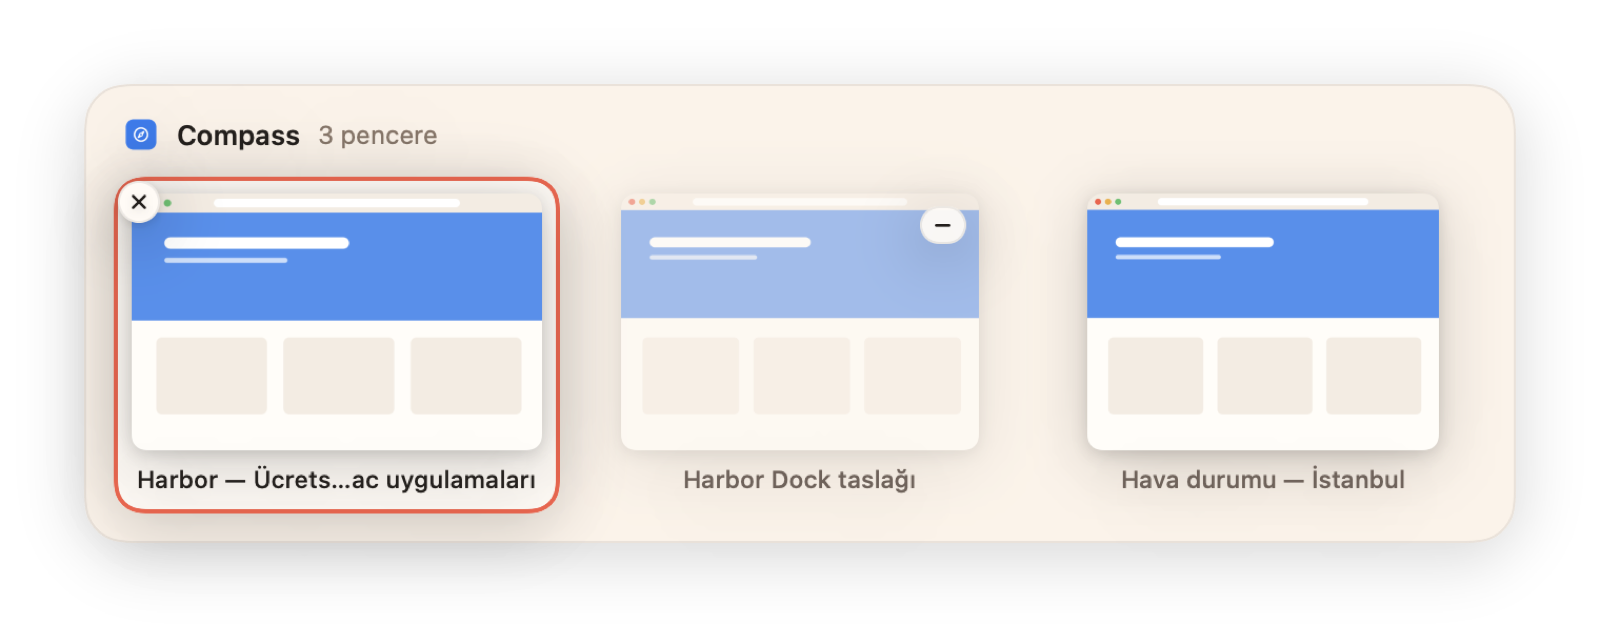
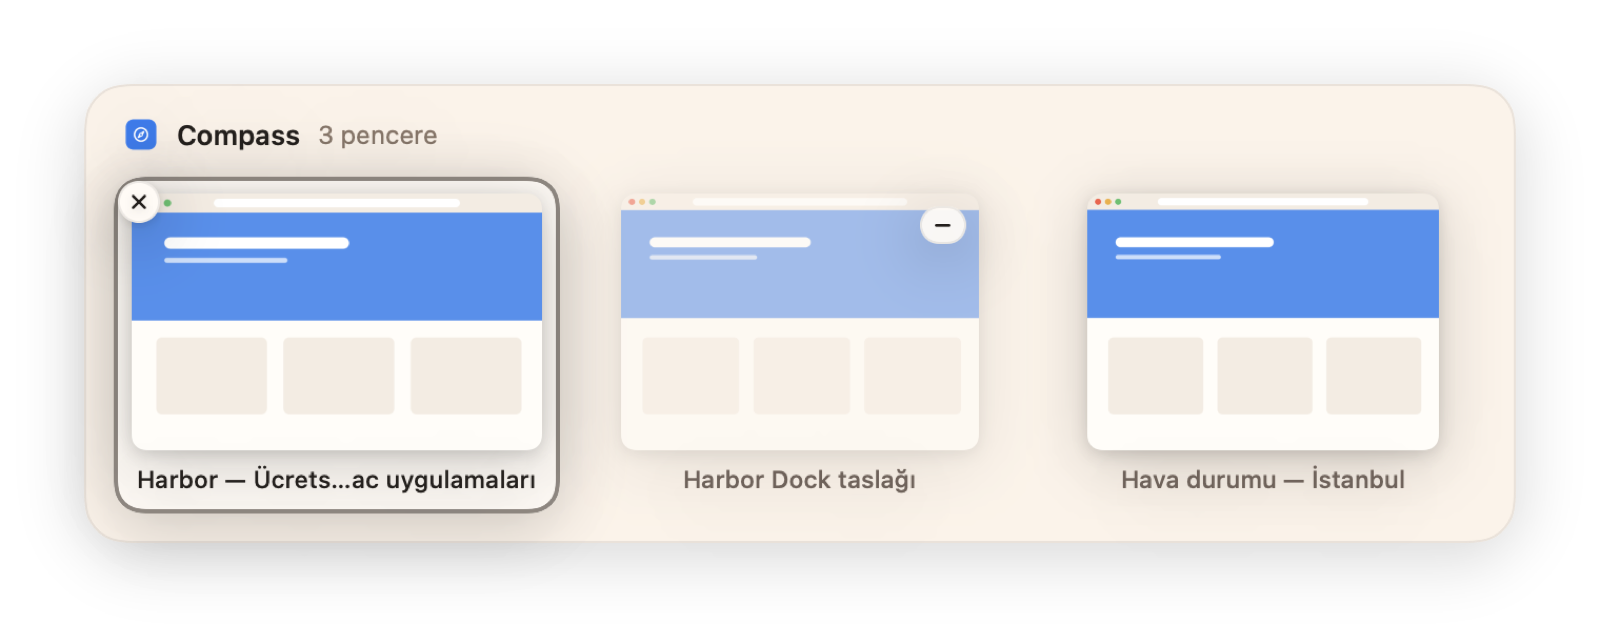
Choose the highlight colour; grey by default instead of coral
- Settings → General → Highlight: pebble grey (default), sky, mint, lilac,
  sun, coral, graphite or the system accent, for the selection ring and
  the search caret. Described in settings-schema.json.
- Buttons and permission rows use ink instead of coral.
- The website's ring, caret and badges are grey; screenshots and the
  README animation are re-rendered.

Changed region(s): [[0.0625, 0.7879, 0.3438, 0.8182], [0.0625, 0.2727, 0.3438, 0.303]]

diff --git a/docs/styles.css b/docs/styles.css
@@ -6,8 +6,7 @@
   --ink-2: #6e625a;
   --ink-3: #857568;
   --line: rgba(35, 31, 28, 0.08);
-  --coral: #e8664f;
-  --coral-ink: #c4503b;
+  --accent: #8f8881;      /* pebble grey: the selection ring */
   --green: #34c759;
   --orange: #ff9f0a;
   --font: system-ui, -apple-system, BlinkMacSystemFont, "Segoe UI", sans-serif;
@@ -61,8 +60,8 @@ code { font: 0.86em var(--mono); background: var(--raised); padding: 2px 6px; bo
 .tag-free {
   padding: 2px 8px;
   border-radius: 999px;
-  background: rgba(232, 102, 79, 0.12);
-  color: var(--coral-ink);
+  background: var(--raised);
+  color: var(--ink-2);
   font-size: 11px;
   font-weight: 700;
   letter-spacing: 0.02em;
@@ -132,7 +131,7 @@ h1 {
   height: 0.42em;
   border-radius: 0.08em;
   background: var(--ink);
-  box-shadow: 0 0 0 0.035em var(--card), 0 0 0 0.075em var(--coral);
+  box-shadow: 0 0 0 0.035em var(--card), 0 0 0 0.075em var(--accent);
 }
 
 .lead { margin: 24px auto 0; max-width: 36ch; color: var(--ink-2); font-size: 19px; line-height: 1.5; }
@@ -391,7 +390,7 @@ h1 {
 .dp-head span { color: var(--ink-3); font-weight: 500; }
 .dp-cards { display: flex; gap: 8px; }
 .dp-card { width: 150px; padding: 6px; border: 0; border-radius: 12px; background: transparent; font: inherit; color: inherit; text-align: center; cursor: pointer; transition: transform 100ms ease; }
-.dp-card:hover { background: var(--card); box-shadow: inset 0 0 0 2px var(--coral); }
+.dp-card:hover { background: var(--card); box-shadow: inset 0 0 0 2px var(--accent); }
 .dp-card:active { transform: scale(0.97); transition-duration: 50ms; }
 .dp-card .mini { height: 90px; border-radius: 6px; background: #fffdf9; box-shadow: 0 0 0 1px rgba(35, 31, 28, 0.1), 0 3px 8px -3px rgba(60, 30, 20, 0.3); overflow: hidden; position: relative; }
 .dp-card small { display: block; margin-top: 5px; font-size: 11px; font-weight: 550; color: var(--ink-2); white-space: nowrap; overflow: hidden; text-overflow: ellipsis; }
@@ -426,7 +425,7 @@ h1 {
 }
 .sw-search svg { width: 15px; height: 15px; color: var(--ink-3); }
 .sw-search span:empty::before { content: attr(data-placeholder); color: var(--ink-3); }
-.caret { width: 2px; height: 17px; margin-left: -6px; border-radius: 1px; background: var(--coral); }
+.caret { width: 2px; height: 17px; margin-left: -6px; border-radius: 1px; background: var(--accent); }
 .sw-grid { position: relative; display: flex; flex-wrap: wrap; justify-content: center; gap: 8px; width: calc(var(--cols, 4) * 168px + (var(--cols, 4) - 1) * 8px); margin: 0 auto; }
 .sw-tile { position: relative; z-index: 1; flex: none; width: 168px; padding: 8px; border-radius: 14px; cursor: pointer; transition: transform 90ms ease; }
 .sw-tile:active { transform: scale(0.97); transition-duration: 40ms; }
@@ -437,7 +436,7 @@ h1 {
 .sw-cap span { white-space: nowrap; overflow: hidden; text-overflow: ellipsis; }
 .sw-tile.sel .sw-cap { color: var(--ink); font-weight: 650; }
 .app-dot { flex: none; display: grid; place-items: center; width: 14px; height: 14px; border-radius: 4px; color: #fff; font-size: 8.5px; font-weight: 800; }
-.sw-ring { position: absolute; left: 0; top: 0; z-index: 0; border-radius: 14px; background: var(--card); box-shadow: inset 0 0 0 2px var(--coral), 0 6px 14px -6px rgba(60, 30, 20, 0.25); will-change: transform; }
+.sw-ring { position: absolute; left: 0; top: 0; z-index: 0; border-radius: 14px; background: var(--card); box-shadow: inset 0 0 0 2px var(--accent), 0 6px 14px -6px rgba(60, 30, 20, 0.25); will-change: transform; }
 .sw-empty { padding: 40px 120px; color: var(--ink-2); font-size: 14px; font-weight: 600; }
 .sw-hints { display: flex; justify-content: center; flex-wrap: wrap; gap: 4px 14px; margin-top: 12px; color: var(--ink-3); font-size: 11px; font-weight: 550; }
 .sw-hints span { display: flex; align-items: center; gap: 5px; }

diff --git a/Ferry/Design/Theme.swift b/Ferry/Design/Theme.swift
@@ -17,12 +17,37 @@ enum Theme {
     /// The tint laid over a translucent surface, so glass reads cream rather than grey.
     static let surfaceTint = dynamic(light: 0xfbf3ea, dark: 0x1d1916, alpha: 0.78)
 
-    private static func dynamic(light: Int, dark: Int, alpha: CGFloat = 1) -> Color {
+    fileprivate static func dynamic(light: Int, dark: Int, alpha: CGFloat = 1) -> Color {
         Color(nsColor: NSColor(name: nil) { appearance in
             let isDark = appearance.bestMatch(from: [.aqua, .darkAqua]) == .darkAqua
             return NSColor(hex: isDark ? dark : light, alpha: alpha)
         })
     }
+}
+
+/// The colour of the selection ring and the search caret. Pebble, a soft
+/// grey, is the default; every option keeps about 3:1 against the tiles.
+struct Accent: Identifiable, Equatable {
+    let id: String
+    let name: LocalizedStringResource
+    let color: Color
+
+    static func == (a: Accent, b: Accent) -> Bool { a.id == b.id }
+
+    static let all: [Accent] = [
+        Accent(id: "pebble", name: "Pebble", color: Theme.dynamic(light: 0x8f8881, dark: 0xa8a098)),
+        Accent(id: "sky", name: "Sky", color: Theme.dynamic(light: 0x3d8fd6, dark: 0x6fb4ee)),
+        Accent(id: "mint", name: "Mint", color: Theme.dynamic(light: 0x2f9e74, dark: 0x5fc79e)),
+        Accent(id: "lilac", name: "Lilac", color: Theme.dynamic(light: 0x8a6fd0, dark: 0xb39cec)),
+        Accent(id: "sun", name: "Sun", color: Theme.dynamic(light: 0xd99a1e, dark: 0xf2c25a)),
+        Accent(id: "coral", name: "Coral", color: Theme.coral),
+        Accent(id: "graphite", name: "Graphite", color: Theme.dynamic(light: 0x3a3532, dark: 0xd8d0c8)),
+        Accent(id: "system", name: "System", color: Color(nsColor: .controlAccentColor)),
+    ]
+
+    static let pebble = all[0]
+
+    static func named(_ id: String) -> Accent { all.first { $0.id == id } ?? .pebble }
 }
 
 /// Springs. Critically damped by default; nothing in Ferry is flung, so
@@ -75,6 +100,7 @@ struct Palette {
 }
 
 private struct PaletteKey: EnvironmentKey { static let defaultValue = Palette.cream }
+private struct AccentKey: EnvironmentKey { static let defaultValue = Accent.pebble }
 private struct StaticRenderKey: EnvironmentKey { static let defaultValue = false }
 
 extension EnvironmentValues {
@@ -88,6 +114,11 @@ extension EnvironmentValues {
     var palette: Palette {
         get { self[PaletteKey.self] }
         set { self[PaletteKey.self] = newValue }
+    }
+
+    var accent: Accent {
+        get { self[AccentKey.self] }
+        set { self[AccentKey.self] = newValue }
     }
 }
 

diff --git a/Ferry/Settings/SettingsView.swift b/Ferry/Settings/SettingsView.swift
@@ -23,6 +23,7 @@ struct SettingsView: View {
 private struct GeneralSettings: View {
     @AppStorage(Prefs.showMenuBarIcon) private var showMenuBarIcon = true
     @AppStorage(Prefs.panelStyle) private var panelStyle = "cream"
+    @AppStorage(Prefs.accentColor) private var accentColor = "pebble"
     @State private var launchAtLogin = SMAppService.mainApp.status == .enabled
     @State private var language = AppLanguage.current
     private let launchLanguage = AppLanguage.current
@@ -46,6 +47,9 @@ private struct GeneralSettings: View {
                     }
                 }
                 .pickerStyle(.segmented)
+                LabeledContent("Highlight") {
+                    AccentPicker(selection: $accentColor)
+                }
                 Text("How the switcher and Dock previews look.")
                     .font(.caption)
                     .foregroundStyle(.secondary)
@@ -76,6 +80,30 @@ private struct GeneralSettings: View {
     }
 }
 
+/// A row of colour dots, one per highlight.
+private struct AccentPicker: View {
+    @Binding var selection: String
+
+    var body: some View {
+        HStack(spacing: 8) {
+            ForEach(Accent.all) { accent in
+                let selected = accent.id == selection
+                Button { selection = accent.id } label: {
+                    Circle()
+                        .fill(accent.color)
+                        .frame(width: 18, height: 18)
+                        .padding(3)
+                        .overlay(Circle().strokeBorder(selected ? Color.primary : .clear, lineWidth: 1.5))
+                }
+                .buttonStyle(PressableStyle())
+                .help(Text(accent.name))
+                .accessibilityLabel(Text(accent.name))
+                .accessibilityAddTraits(selected ? .isSelected : [])
+            }
+        }
+    }
+}
+
 private struct PermissionStatus: View {
     let title: LocalizedStringKey
     let granted: Bool
@@ -84,7 +112,7 @@ private struct PermissionStatus: View {
         LabeledContent(title) {
             Label(granted ? "Allowed" : "Not allowed",
                   systemImage: granted ? "checkmark.circle.fill" : "circle.dashed")
-                .foregroundStyle(granted ? Theme.coralText : .secondary)
+                .foregroundStyle(granted ? Color.primary : .secondary)
         }
     }
 }

diff --git a/Ferry/Switcher/SwitcherView.swift b/Ferry/Switcher/SwitcherView.swift
@@ -1,7 +1,7 @@
 import SwiftUI
 
-/// The switcher: a calm cream surface with one tile per window. The coral
-/// ring slides to the selection on a critically damped spring.
+/// The switcher: a calm cream surface with one tile per window. A ring in the
+/// chosen highlight colour slides to the selection on a critically damped spring.
 struct SwitcherView: View {
     @Bindable var model: SwitcherModel
     var thumbnails: ThumbnailCache
@@ -80,6 +80,7 @@ struct SwitcherView: View {
 
 private struct Tile: View {
     @Environment(\.palette) private var palette
+    @Environment(\.accent) private var accent
     let item: WindowItem
     let image: CGImage?
     let layout: SwitcherLayout
@@ -121,7 +122,7 @@ private struct Tile: View {
                         .fill(palette.card)
                         .overlay(
                             RoundedRectangle(cornerRadius: 16, style: .continuous)
-                                .strokeBorder(Theme.coral, lineWidth: 2)
+                                .strokeBorder(accent.color, lineWidth: 2)
                         )
                         .shadow(color: .black.opacity(0.08), radius: 6, y: 2)
                         .matchedGeometryEffect(id: "selection", in: selection)
@@ -142,6 +143,7 @@ private struct Tile: View {
 
 private struct SearchField: View {
     @Environment(\.palette) private var palette
+    @Environment(\.accent) private var accent
     let query: String
 
     var body: some View {
@@ -155,7 +157,7 @@ private struct SearchField: View {
             } else {
                 Text(query).foregroundStyle(palette.ink)
             }
-            RoundedRectangle(cornerRadius: 1).fill(Theme.coral).frame(width: 2, height: 18)
+            RoundedRectangle(cornerRadius: 1).fill(accent.color).frame(width: 2, height: 18)
                 .padding(.leading, query.isEmpty ? -8 : -6)
                 .opacity(query.isEmpty ? 0 : 1)
             Spacer(minLength: 0)

diff --git a/Ferry/Design/Components.swift b/Ferry/Design/Components.swift
@@ -95,18 +95,18 @@ struct PressableStyle: ButtonStyle {
     }
 }
 
-/// The primary Harbor button: coral fill, cream text.
+/// The primary Harbor button: ink fill, cream text.
 struct HarborButtonStyle: ButtonStyle {
     var prominent = true
 
     func makeBody(configuration: Configuration) -> some View {
         configuration.label
             .font(.system(size: 13, weight: .semibold))
-            .foregroundStyle(prominent ? Color.white : Theme.ink)
+            .foregroundStyle(prominent ? Theme.background : Theme.ink)
             .padding(.horizontal, 14)
             .frame(height: 30)
             .background(
-                Capsule().fill(prominent ? Theme.coralText : Theme.card)
+                Capsule().fill(prominent ? Theme.ink : Theme.card)
                     .overlay(Capsule().strokeBorder(prominent ? Color.clear : Theme.hairline))
             )
             .brightness(configuration.isPressed ? -0.06 : 0)

diff --git a/Ferry/Onboarding/Onboarding.swift b/Ferry/Onboarding/Onboarding.swift
@@ -126,7 +126,7 @@ private struct PermissionRow: View {
         HStack(alignment: .top, spacing: 14) {
             Image(systemName: symbol)
                 .font(.system(size: 18, weight: .medium))
-                .foregroundStyle(Theme.coralText)
+                .foregroundStyle(Theme.ink)
                 .frame(width: 36, height: 36)
                 .background(RoundedRectangle(cornerRadius: 10, style: .continuous).fill(Theme.raised))
 
@@ -155,7 +155,7 @@ private struct PermissionRow: View {
                 if granted {
                     Label("Allowed", systemImage: "checkmark.circle.fill")
                         .font(.system(size: 13, weight: .semibold))
-                        .foregroundStyle(Theme.coralText)
+                        .foregroundStyle(Theme.ink2)
                         .frame(height: 30)
                         .transition(.opacity.combined(with: .scale(scale: 0.9)))
                 } else {

diff --git a/Ferry/Settings/Prefs.swift b/Ferry/Settings/Prefs.swift
@@ -7,6 +7,8 @@ enum Prefs {
     static let showMenuBarIcon = "showMenuBarIcon"
     /// Panel look: "cream" (Harbor's own) or "glass" (Liquid Glass, macOS 26+).
     static let panelStyle = "panelStyle"
+    /// Selection colour: an `Accent` id ("pebble", "sky", "mint", "lilac", "sun", "coral", "graphite", "system").
+    static let accentColor = "accentColor"
     /// The key held while pressing Tab: "option", "command" or "control".
     static let switcherModifier = "switcherModifier"
     /// "all" or "current" Space.
@@ -27,6 +29,7 @@ enum Prefs {
         UserDefaults.standard.register(defaults: [
             showMenuBarIcon: true,
             panelStyle: "cream",
+            accentColor: "pebble",
             switcherModifier: "option",
             switcherSpaces: "all",
             switcherDisplays: "all",

diff --git a/Ferry/DockPreview/DockPreviewView.swift b/Ferry/DockPreview/DockPreviewView.swift
@@ -63,6 +63,7 @@ struct DockPreviewView: View {
 
 private struct Card: View {
     @Environment(\.palette) private var palette
+    @Environment(\.accent) private var accent
     let item: WindowItem
     let image: CGImage?
     let isHovered: Bool
@@ -89,7 +90,7 @@ private struct Card: View {
                     RoundedRectangle(cornerRadius: 14, style: .continuous)
                         .fill(palette.card)
                         .overlay(RoundedRectangle(cornerRadius: 14, style: .continuous)
-                            .strokeBorder(Theme.coral, lineWidth: 2))
+                            .strokeBorder(accent.color, lineWidth: 2))
                 }
             }
             .contentShape(RoundedRectangle(cornerRadius: 14, style: .continuous))

diff --git a/docs/index.html b/docs/index.html
@@ -35,7 +35,7 @@
     "offers": { "@type": "Offer", "price": "0", "priceCurrency": "USD" }
   }
   </script>
-  <link rel="stylesheet" href="styles.css?v=4">
+  <link rel="stylesheet" href="styles.css?v=5">
 </head>
 <body>
   <svg width="0" height="0" style="position:absolute" aria-hidden="true">
@@ -231,6 +231,6 @@
     <p class="disclaimer" data-i18n="footer.disclaimer">Ferry is an independent project and is not affiliated with, endorsed by or sponsored by Apple Inc. Mac, macOS and Mission Control are trademarks of Apple Inc., registered in the U.S. and other countries.</p>
   </footer>
 
-  <script src="app.js?v=4"></script>
+  <script src="app.js?v=5"></script>
 </body>
 </html>

diff --git a/Ferry/DockPreview/DockPreviewController.swift b/Ferry/DockPreview/DockPreviewController.swift
@@ -295,11 +295,13 @@ final class DockPreviewController {
 private struct DockPreviewRoot: View {
     let model: DockPreviewModel
     @AppStorage(Prefs.panelStyle) private var style = "cream"
+    @AppStorage(Prefs.accentColor) private var accent = "pebble"
 
     var body: some View {
         DockPreviewView(model: model, thumbnails: ThumbnailCache.shared,
                         showsPictures: Permissions.shared.screenRecording)
             .environment(\.palette, .named(style))
+            .environment(\.accent, .named(accent))
             .padding(DockPreviewMetrics.margin)
     }
 }

diff --git a/Ferry/Switcher/SwitcherController.swift b/Ferry/Switcher/SwitcherController.swift
@@ -342,10 +342,12 @@ extension SwitcherController {
 private struct SwitcherRoot: View {
     let model: SwitcherModel
     @AppStorage(Prefs.panelStyle) private var style = "cream"
+    @AppStorage(Prefs.accentColor) private var accent = "pebble"
 
     var body: some View {
         SwitcherView(model: model, thumbnails: ThumbnailCache.shared,
                      showsPictures: Permissions.shared.screenRecording)
             .environment(\.palette, .named(style))
+            .environment(\.accent, .named(accent))
     }
 }

diff --git a/scripts/make-gif.py b/scripts/make-gif.py
@@ -5,7 +5,7 @@
     python3 scripts/make-gif.py <dir>/gif docs/assets/readme/demo-en.gif
 
 The renderer draws the switcher once with no selection (base.png) and once
-per selected tile (sel-N.png). Here the coral ring slides between tiles on
+per selected tile (sel-N.png). Here the selection ring slides between tiles on
 the same critically damped spring the app uses, and the panel opens and
 closes on the app's presentation spring.
 """
@@ -19,7 +19,7 @@ from PIL import Image, ImageChops, ImageDraw, ImageFilter
 
 FPS = 30
 OUT_WIDTH = 960
-CORAL = (232, 102, 79)
+CORAL = (143, 136, 129)  # the ring colour (pebble grey)
 
 frames_dir, out = Path(sys.argv[1]), Path(sys.argv[2])
 base = Image.open(frames_dir / 'base.png').convert('RGBA')
